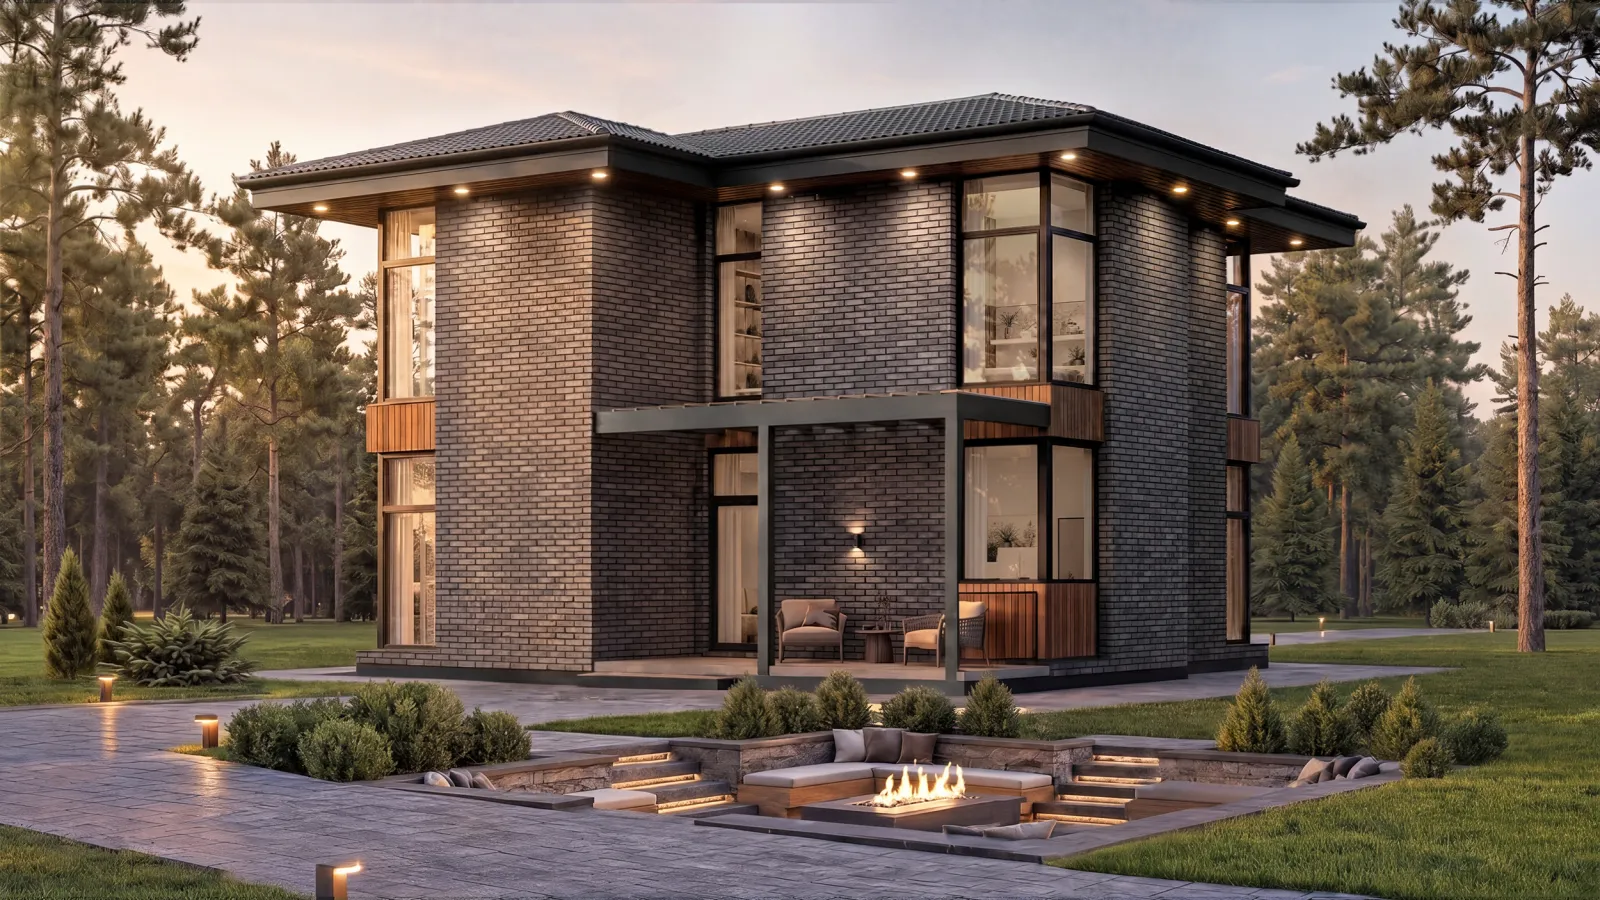
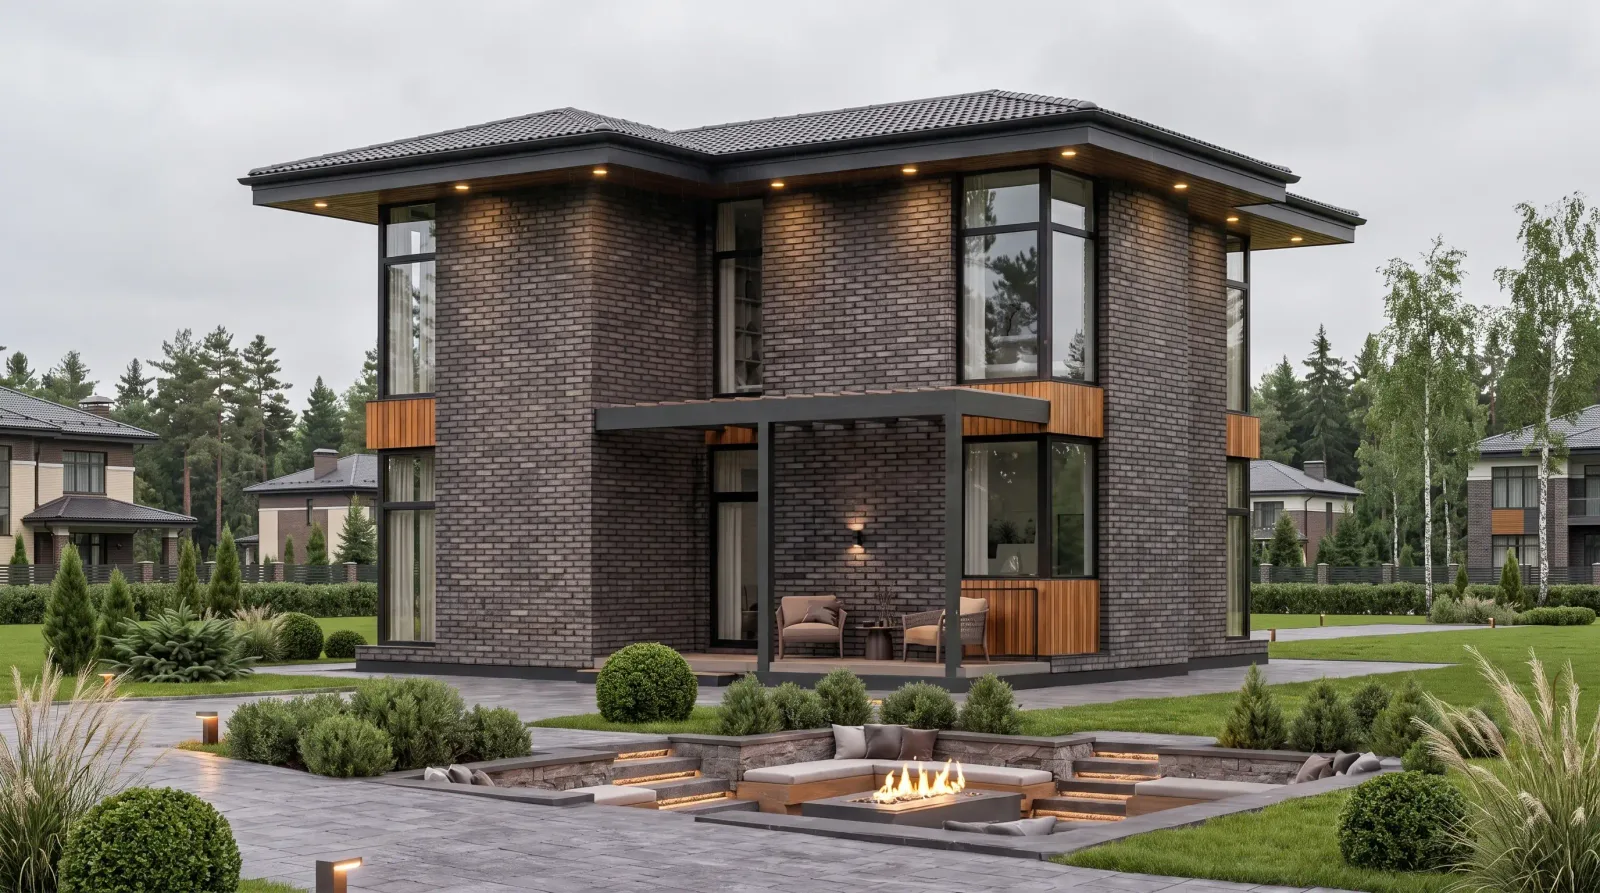
Обновить визуализации проектов керамики + дом в галерею
Заменены внешние кадры проектов Орион, Брайтон, Графит, Модерн и
Нордика на новые рендеры. Один кадр «Модерна» добавлен в галерею
«Построенные дома» широкой плиткой. У «Нордики» галерея приведена
к двум кадрам.

Claude-Session: https://claude.ai/code/session_01RiJthXTDB2NMDvn9FoUhaQ

diff --git a/src/data/projects.ts b/src/data/projects.ts
@@ -445,9 +445,8 @@ export const projects: Project[] = [
     hook: "Одноэтажный дом на 5 спален у воды",
     tag: "5 спален",
     gallery: [
-      { src: "/images/projects/nordika/ext-1.webp", alt: "«Нордика» — главный фасад с террасой" },
-      { src: "/images/projects/nordika/ext-2.webp", alt: "«Нордика» — вид со стороны участка" },
-      { src: "/images/projects/nordika/ext-3.webp", alt: "«Нордика» — ракурс у воды" },
+      { src: "/images/projects/nordika/ext-1.webp", alt: "«Нордика» — главный фасад с террасой под перголой" },
+      { src: "/images/projects/nordika/ext-2.webp", alt: "«Нордика» — фронтальный вид с террасой" },
     ],
     plans: [
       { floor: "Планировка · 265,15 м²", src: "/images/projects/nordika/plan-1.webp" },
